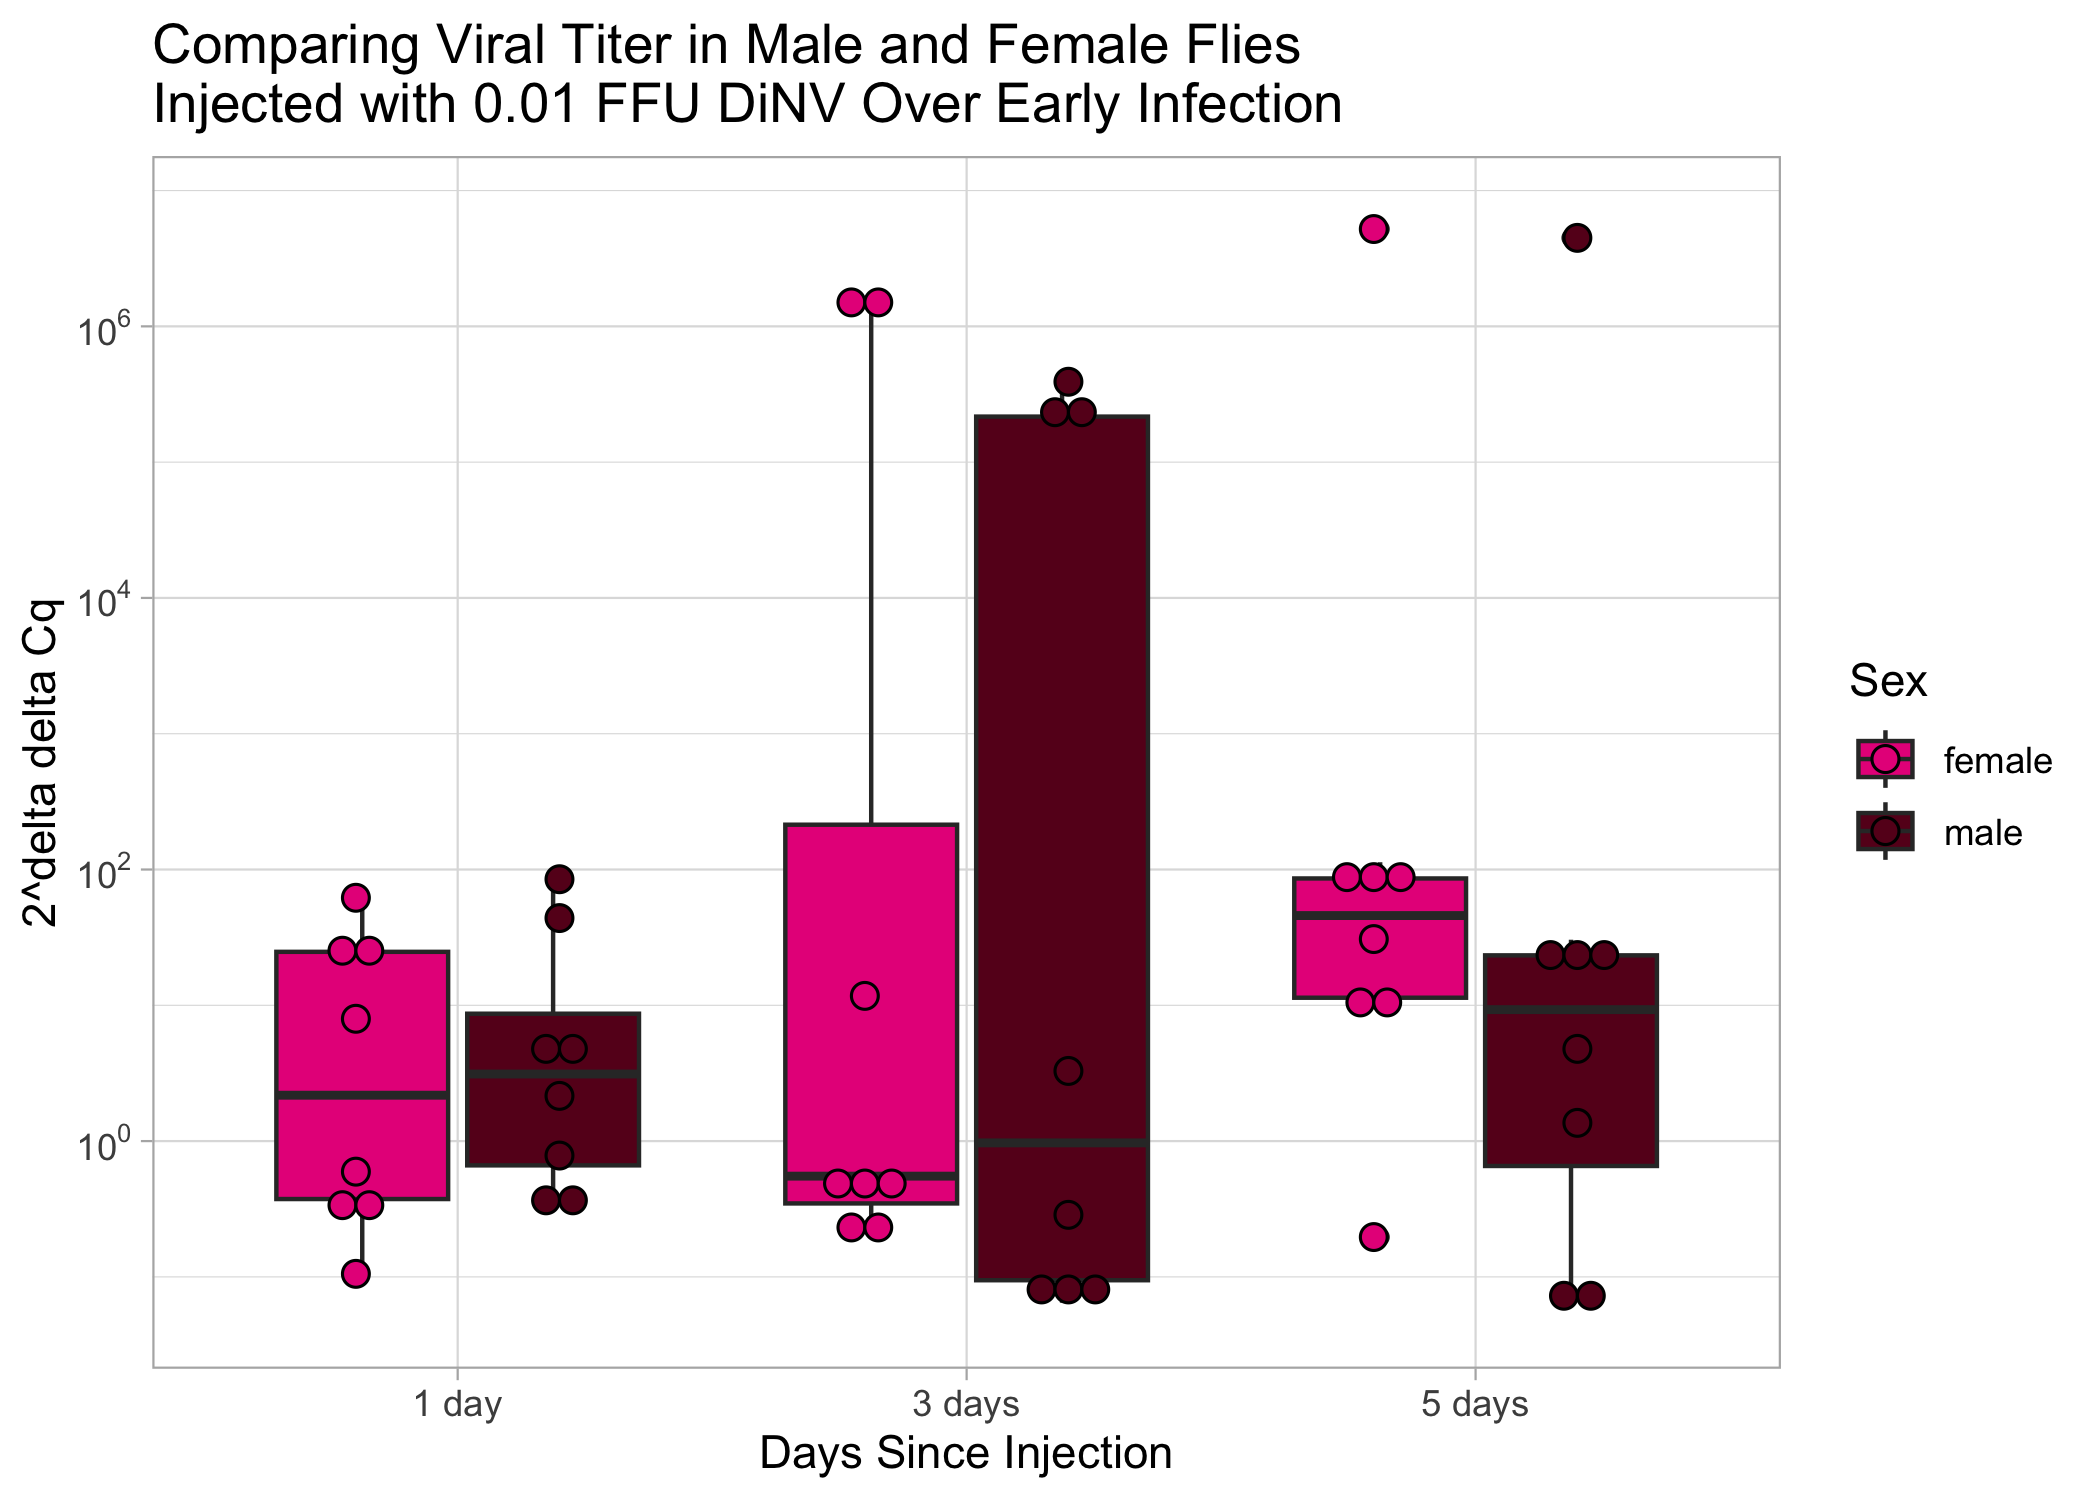
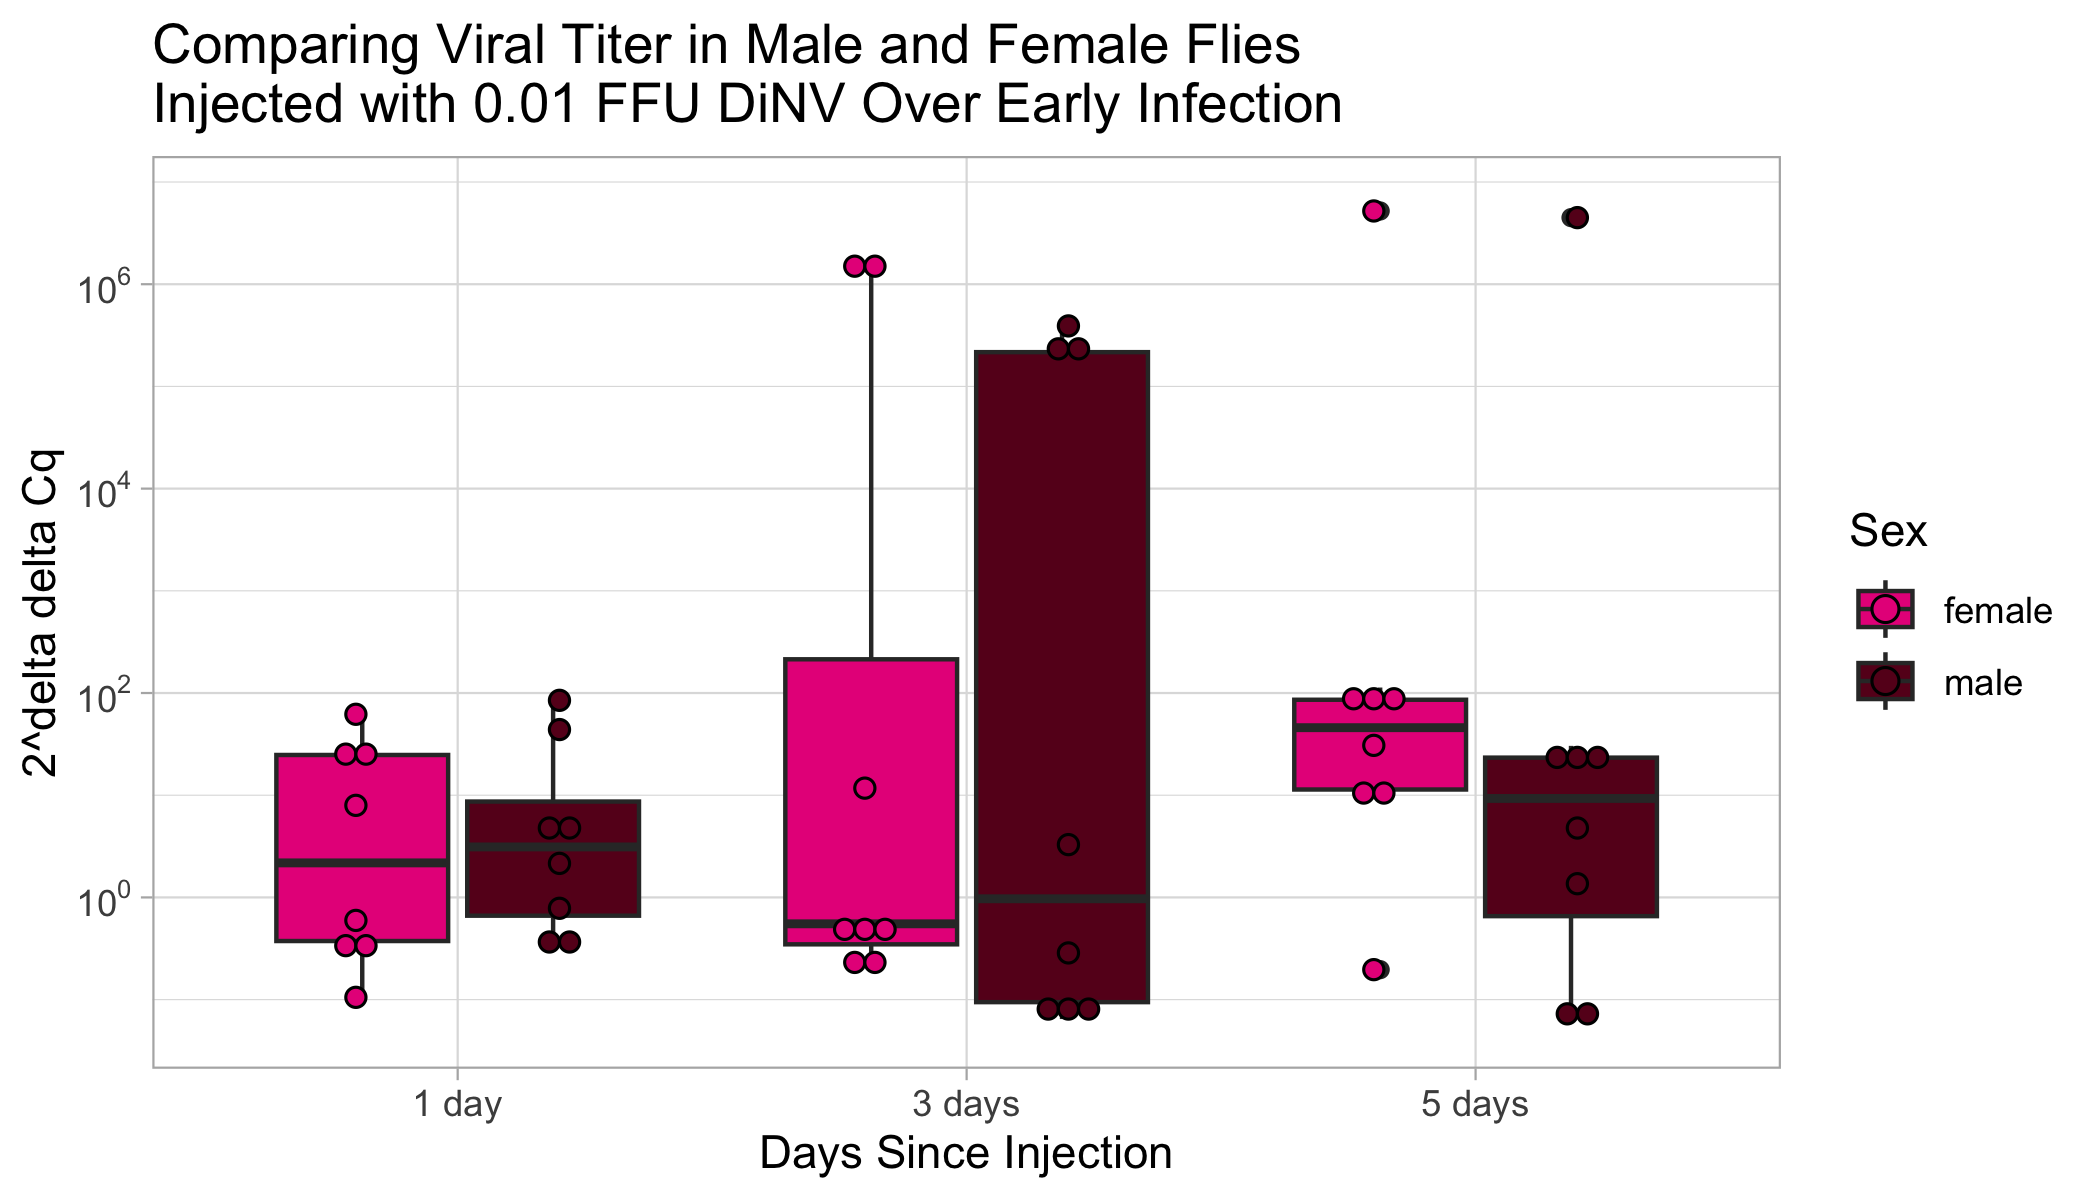
updating analysis

diff --git a/Infection_survival_analyses/20240315-combo-female-low-dilutions/20240315-female-low-dil-P4.md b/Infection_survival_analyses/20240315-combo-female-low-dilutions/20240315-female-low-dil-P4.md
@@ -1,4 +1,4 @@
-# 20240221-low-dilutions-rep-2-male
+# 20240315-female-low-dilutions-P4
 
 Load in packages needed for the analysis
 
@@ -98,17 +98,12 @@ return(results)
 
 Read in raw data
 
-**Note that for these datasets, the adjusted N number is the number of
-flies alive on day 2 because there seemed to be more early death in
-these experiments than usual**
-
 ``` r
 #read the file from csv
-df<-read.csv("/Users/maggieschedl/Desktop/Github/Unckless_Lab_Resources/Infection_survival_analyses/20240221-low-dilutions-rep-2-male/20240221-male-low-dil-rep2.csv")
+df<-read.csv("/Users/maggieschedl/Desktop/Github/Unckless_Lab_Resources/Infection_survival_analyses/20240315-combo-female-low-dilutions/combo-female-low-dil-infections.csv")
 
-# now extra rows, I already separated the females out 
 # separate out columns needed
-df <- df[,c(1,9,14:28)]
+df<-df[,c(1,9,15:29)]
 ```
 
 Convert dataframe
@@ -117,49 +112,28 @@ Convert dataframe
 df.convert<-convert_df(df)
 ```
 
-Plot survivial curve with every line separate
+basic plot
 
 ``` r
-# change to not have confidence intervals in this one so you can see them 
 df_fit<- survfit(Surv(dead, status) ~ treatment, data=df.convert)
-ggsurvplot(df_fit, size = 5,
-          pval = FALSE, conf.int = FALSE,
-          font.tickslab = c(14),
-          font.x = c(16),
-          font.y = c(16),
-          ggtheme = theme_light())
+ggsurvplot(df_fit,
+          pval = TRUE, conf.int = FALSE,
+          #risk.table = TRUE, # Add risk table
+          #risk.table.col = "strata", # Change risk table color by groups
+          #linetype = "strata", # Change line type by groups
+          #surv.median.line = "hv", # Specify median survival
+          ggtheme = theme_bw()) # Change ggplot2 theme
 ```
 
-![](20240221-low-dilutions-rep-2-male_files/figure-commonmark/unnamed-chunk-5-1.png)
-
-**Combine Replicates 1 and 2**
-
-``` r
-#read the file from csv
-df2<-read.csv("/Users/maggieschedl/Desktop/Github/Unckless_Lab_Resources/Infection_survival_analyses/20240221-low-dilutions-rep-2-male/low-dil-male-combo.csv")
-
-# now extra rows, I already separated the females out 
-# separate out columns needed
-df2 <- df2[,c(1,8,13:27)]
-```
-
-Convert dataframe
-
-``` r
-df2.convert<-convert_df(df2)
-```
-
-Plot survivial curve with every line separate
+![](20240315-female-low-dil-P4_files/figure-commonmark/unnamed-chunk-5-1.png)
 
 ``` r
 # level the treatments so they go in an order 
-df2.convert <- df2.convert %>% 
+df.convert <- df.convert %>% 
   mutate(treatment = factor(treatment, levels = c("CCM", "0.005 FFU", "0.01 FFU", "0.05 FFU")))
-# I'm not sure this worked
 
 # change to not have confidence intervals in this one so you can see them 
-# for some reason when I render this plot it does not do the colors in the order I see them in R. I'm not sure why 
-df2_fit<- survfit(Surv(dead, status) ~ treatment, data=df2.convert)
+df_fit<- survfit(Surv(dead, status) ~ treatment, data=df.convert)
 ggsurvplot(df_fit, size = 5,
           pval = FALSE, conf.int = FALSE,
           legend = "right",
@@ -167,19 +141,19 @@ ggsurvplot(df_fit, size = 5,
           font.x = c(16),
           font.y = c(16),
           ggtheme = theme_light(),
-          title = "Male D. innubila Injected with Dilutions of Passage 4 DiNV",
+          title = "Female D. innubila Injected with Dilutions of Passage 4 DiNV",
           legend.title="Treatment",
-          legend.labs=c(  "0.01 FFU", "0.005 FFU", "0.05 FFU", "CCM"),
+          legend.labs=c("CCM", "0.005 FFU", "0.01 FFU", "0.05 FFU"),
           font.legend = c(14),
-          palette = c(  "#E7298A","#C994C7", "#980043", "#E7E1EF")) + ylab("Survival Proporation") + xlab("Days post injection")
+          palette = c("#E7E1EF", "#C994C7", "#E7298A", "#980043")) + ylab("Survival Proporation") + xlab("Days post injection")
 ```
 
-![](20240221-low-dilutions-rep-2-male_files/figure-commonmark/unnamed-chunk-8-1.png)
+![](20240315-female-low-dil-P4_files/figure-commonmark/unnamed-chunk-6-1.png)
 
 Find median survival time by treatment
 
 ``` r
-surv_median(df2_fit, combine = FALSE)
+surv_median(df_fit, combine = FALSE)
 ```
 
     Warning: `select_()` was deprecated in dplyr 0.7.0.
@@ -189,40 +163,40 @@ surv_median(df2_fit, combine = FALSE)
 
                    strata median lower upper
     1       treatment=CCM     NA    NA    NA
-    2 treatment=0.005 FFU     NA    14    NA
-    3  treatment=0.01 FFU     12    10    NA
-    4  treatment=0.05 FFU      9     9    12
+    2 treatment=0.005 FFU     NA    NA    NA
+    3  treatment=0.01 FFU     10     8    NA
+    4  treatment=0.05 FFU      9     8    12
 
 Model just looking at significance of block and treatment
 
 ``` r
 # add in block 
-df2.convert$Block <- rep(c("A","B"), c(77, 73))
+df.convert$Block <- rep(c("A","B"), c(72, 74))
 # model including block 
-df3_fit<- coxph(Surv(dead, status) ~ treatment + Block, data=df2.convert)
-summary(df3_fit)
+df2_fit<- coxph(Surv(dead, status) ~ treatment + Block, data=df.convert)
+summary(df2_fit)
 ```
 
     Call:
-    coxph(formula = Surv(dead, status) ~ treatment + Block, data = df2.convert)
+    coxph(formula = Surv(dead, status) ~ treatment + Block, data = df.convert)
 
-      n= 150, number of events= 72 
+      n= 146, number of events= 70 
 
-                           coef exp(coef) se(coef)      z Pr(>|z|)    
-    treatment0.005 FFU  0.80493   2.23654  0.47544  1.693   0.0905 .  
-    treatment0.01 FFU   1.14824   3.15265  0.47072  2.439   0.0147 *  
-    treatment0.05 FFU   1.82658   6.21258  0.45096  4.050 5.11e-05 ***
-    BlockB             -0.03506   0.96555  0.23931 -0.147   0.8835    
+                         coef exp(coef) se(coef)     z Pr(>|z|)    
+    treatment0.005 FFU 0.9878    2.6853   0.5326 1.855 0.063625 .  
+    treatment0.01 FFU  1.8815    6.5633   0.4983 3.776 0.000159 ***
+    treatment0.05 FFU  2.1778    8.8267   0.4834 4.505 6.65e-06 ***
+    BlockB             0.2388    1.2698   0.2401 0.995 0.319764    
     ---
     Signif. codes:  0 '***' 0.001 '**' 0.01 '*' 0.05 '.' 0.1 ' ' 1
 
                        exp(coef) exp(-coef) lower .95 upper .95
-    treatment0.005 FFU    2.2365     0.4471    0.8808     5.679
-    treatment0.01 FFU     3.1527     0.3172    1.2531     7.932
-    treatment0.05 FFU     6.2126     0.1610    2.5669    15.036
-    BlockB                0.9655     1.0357    0.6041     1.543
+    treatment0.005 FFU     2.685     0.3724    0.9455     7.626
+    treatment0.01 FFU      6.563     0.1524    2.4717    17.428
+    treatment0.05 FFU      8.827     0.1133    3.4221    22.767
+    BlockB                 1.270     0.7875    0.7932     2.033
 
-    Concordance= 0.651  (se = 0.034 )
-    Likelihood ratio test= 24.37  on 4 df,   p=7e-05
-    Wald test            = 22.33  on 4 df,   p=2e-04
-    Score (logrank) test = 25.73  on 4 df,   p=4e-05
+    Concordance= 0.694  (se = 0.029 )
+    Likelihood ratio test= 37.95  on 4 df,   p=1e-07
+    Wald test            = 28.84  on 4 df,   p=8e-06
+    Score (logrank) test = 36.2  on 4 df,   p=3e-07

diff --git a/qPCR_analysis/20240228-viral-load-dilutions/p4-DiNV-viral-dilutions-over-time.md b/qPCR_analysis/20240228-viral-load-dilutions/p4-DiNV-viral-dilutions-over-time.md
@@ -148,10 +148,19 @@ Cq_values_F_Delta$delta_Cq <- delta_Cqs_F
 # add a column with 2^ delta Cq
 Cq_values_F_Delta$delta_Cq_2 <- 2^(delta_Cqs_F)
 
+ledgend_title <- "Virus Delivery"
 
 # plot and use a log 10 scale for the y axis 
-ggplot(Cq_values_F_Delta, aes(y= delta_Cq_2, x=day, color=dilution)) + geom_boxplot()  + theme_linedraw() + geom_point(position=position_jitterdodge(dodge.width=0.9), size=2) + scale_y_continuous(trans='log10', breaks=trans_breaks('log10', function(x) 10^x), labels=trans_format('log10', math_format(10^.x)))
+ggplot(Cq_values_F_Delta, aes(y= delta_Cq_2, x=day, fill=dilution)) + geom_boxplot(outlier.shape=NA)  + theme_light() + scale_fill_manual(ledgend_title, values=c("#E7E1EF", "#C994C7", "#CE1256")) + 
+  geom_dotplot(binaxis='y', stackdir='center', dotsize=0.75, position=position_dodge(0.8)) + 
+  scale_y_continuous(trans='log10', breaks=trans_breaks('log10', function(x) 10^x), labels=trans_format('log10', math_format(10^.x))) + 
+  scale_x_discrete(labels=c("day0" = "0 days", "day1" = "1 day", "day3" = "3 days", "day5" = "5 days")) + 
+  labs(title = "Comparing Viral Load in Female D. innubila Across Early Infection",y = "Relative amount of DiNV genome to host genome", x = "Days Post Injection") + 
+  theme(legend.position = c(0.15, 0.8), legend.background = element_rect(linetype="solid", colour ="black"))
 ```
+
+    Bin width defaults to 1/30 of the range of the data. Pick better value with
+    `binwidth`.
 
 ![](p4-DiNV-viral-dilutions-over-time_files/figure-commonmark/unnamed-chunk-6-1.png)
 
@@ -238,10 +247,20 @@ Cq_values_M_Delta$delta_Cq <- delta_Cqs_M
 # add a column with 2^ delta Cq
 Cq_values_M_Delta$delta_Cq_2 <- 2^(delta_Cqs_M)
 
+ledgend_title <- "Virus Delivery"
 
 # plot and use a log 10 scale for the y axis 
-ggplot(Cq_values_M_Delta, aes(y= delta_Cq_2, x=day, color=dilution)) + geom_boxplot()  + theme_linedraw() + geom_point(position=position_jitterdodge(dodge.width=0.9), size=2) + scale_y_continuous(trans='log10', breaks=trans_breaks('log10', function(x) 10^x), labels=trans_format('log10', math_format(10^.x)))
+ggplot(Cq_values_M_Delta, aes(y= delta_Cq_2, x=day, fill=dilution)) +
+  geom_boxplot(outlier.shape=NA)  + theme_light() + scale_fill_manual(ledgend_title, values=c("#E7E1EF", "#C994C7", "#CE1256")) + 
+  geom_dotplot(binaxis='y', stackdir='center', dotsize=0.75, position=position_dodge(0.8)) + 
+  scale_y_continuous(trans='log10', breaks=trans_breaks('log10', function(x) 10^x), labels=trans_format('log10', math_format(10^.x))) + 
+  scale_x_discrete(labels=c("day0" = "0 days", "day1" = "1 day", "day3" = "3 days", "day5" = "5 days")) + 
+  labs(title = "Comparing Viral Load in Male D. innubila Across Early Infection",y = "Relative amount of DiNV genome to host genome", x = "Days Post Injection") +
+  theme(legend.position = c(0.15, 0.8), legend.background = element_rect(linetype="solid", colour ="black"))
 ```
+
+    Bin width defaults to 1/30 of the range of the data. Pick better value with
+    `binwidth`.
 
 ![](p4-DiNV-viral-dilutions-over-time_files/figure-commonmark/unnamed-chunk-8-1.png)
 
@@ -347,14 +366,15 @@ Female_delta_delta <- rbind(F_001, F_01, F_3)
 #Plot 
 legend_title <- "Virus Delivery"
 
-ggplot(Female_delta_delta, aes(y= delta_delta_Cq_2, x=day, fill=dilution)) + geom_boxplot() +  
+ggplot(Female_delta_delta, aes(y= delta_delta_Cq_2, x=day, fill=dilution)) + geom_boxplot(outlier.shape=NA) +  
   scale_fill_manual(legend_title, values=c("#E7E1EF", "#C994C7", "#CE1256")) + 
   theme_light() + 
   geom_dotplot(binaxis='y', stackdir='center', dotsize=0.75, position=position_dodge(0.8)) + 
   scale_y_continuous(trans='log10', breaks=trans_breaks('log10', function(x) 10^x), labels=trans_format('log10', math_format(10^.x))) + 
-  theme(axis.text=element_text(size=12),axis.title=element_text(size=14), legend.text=element_text(size=12), legend.title=element_text(size=14)) +
+  theme(axis.text=element_text(size=12),axis.title=element_text(size=14), legend.text=element_text(size=10), legend.title=element_text(size=11)) +
   scale_x_discrete(labels=c("day1" = "1 day", "day3" = "3 days", "day5" = "5 days")) +
-  labs(title = "Comparing Viral Titer in Female Flies \nInjected with Various Titers Over Early Infection",y = "2^delta delta Cq", x = "Days Since Injection")
+  labs(title = "Comparing DiNV Increase in Female Flies \nInjected with Various Titers Over Early Infection",y = "Relative DiNV Genome Increase", x = "Days Post Injection") +
+  theme(legend.position = c(0.15, 0.75), legend.background = element_rect(linetype="solid", colour ="black"))
 ```
 
     Bin width defaults to 1/30 of the range of the data. Pick better value with
@@ -471,14 +491,15 @@ Male_delta_delta <- rbind(M_001, M_01, M_3)
 # plot
 legend_title <- "Virus Delivery"
 
-ggplot(Male_delta_delta, aes(y= delta_delta_Cq_2, x=day, fill=dilution)) + geom_boxplot() +  
+ggplot(Male_delta_delta, aes(y= delta_delta_Cq_2, x=day, fill=dilution)) + geom_boxplot(outlier.shape=NA) +  
   scale_fill_manual(legend_title, values=c("#E7E1EF", "#C994C7", "#CE1256")) + 
   theme_light() + 
   geom_dotplot(binaxis='y', stackdir='center', dotsize=0.75, position=position_dodge(0.8)) + 
   scale_y_continuous(trans='log10', breaks=trans_breaks('log10', function(x) 10^x), labels=trans_format('log10', math_format(10^.x))) + 
-  theme(axis.text=element_text(size=12),axis.title=element_text(size=14), legend.text=element_text(size=12), legend.title=element_text(size=14)) +
+  theme(axis.text=element_text(size=12),axis.title=element_text(size=14), legend.text=element_text(size=10), legend.title=element_text(size=11)) +
   scale_x_discrete(labels=c("day1" = "1 day", "day3" = "3 days", "day5" = "5 days")) +
-  labs(title = "Comparing Viral Titer in Male Flies \nInjected with Various Titers Over Early Infection",y = "2^delta delta Cq", x = "Days Since Injection")
+  labs(title = "Comparing DiNV Increase in Male Flies \nInjected with Various Titers Over Early Infection",y = "Relative DiNV Genome Increase", x = "Days Post Injection") +
+  theme(legend.position = c(0.15, 0.75), legend.background = element_rect(linetype="solid", colour ="black"))
 ```
 
     Bin width defaults to 1/30 of the range of the data. Pick better value with
